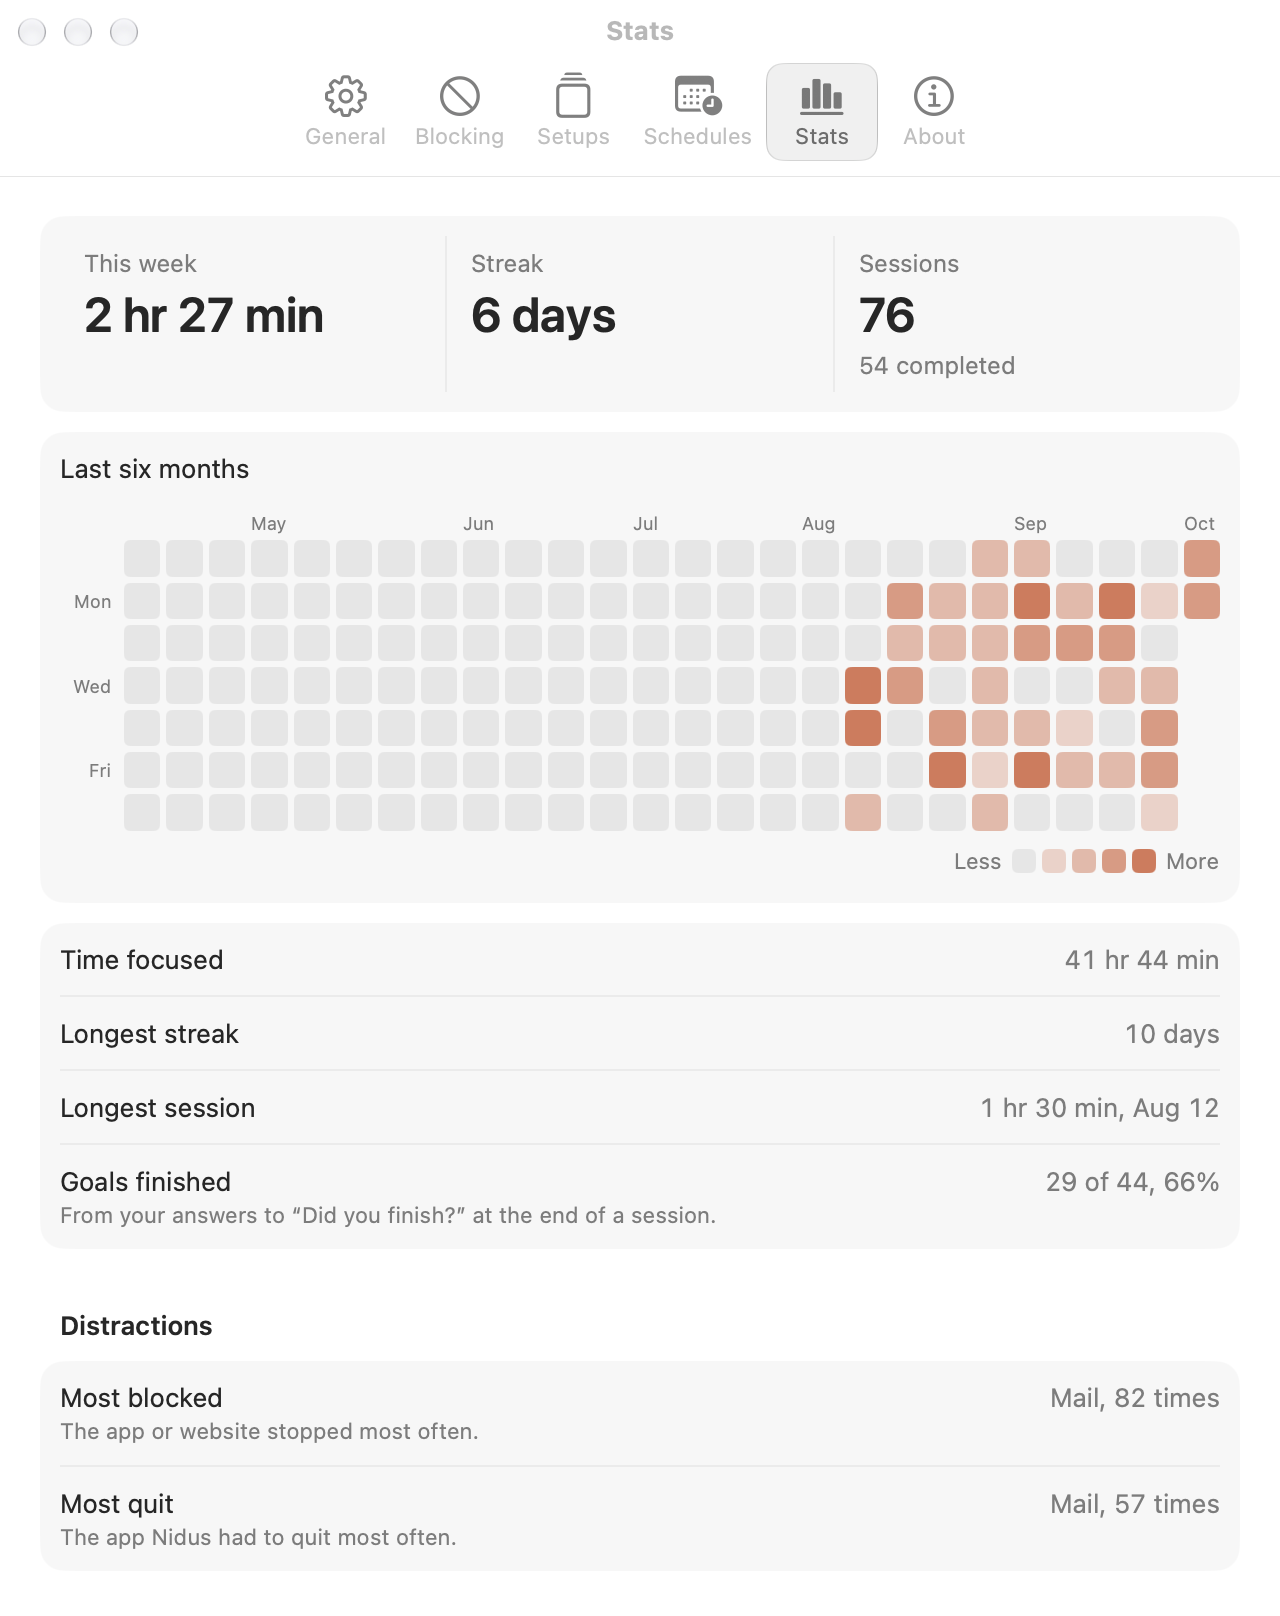
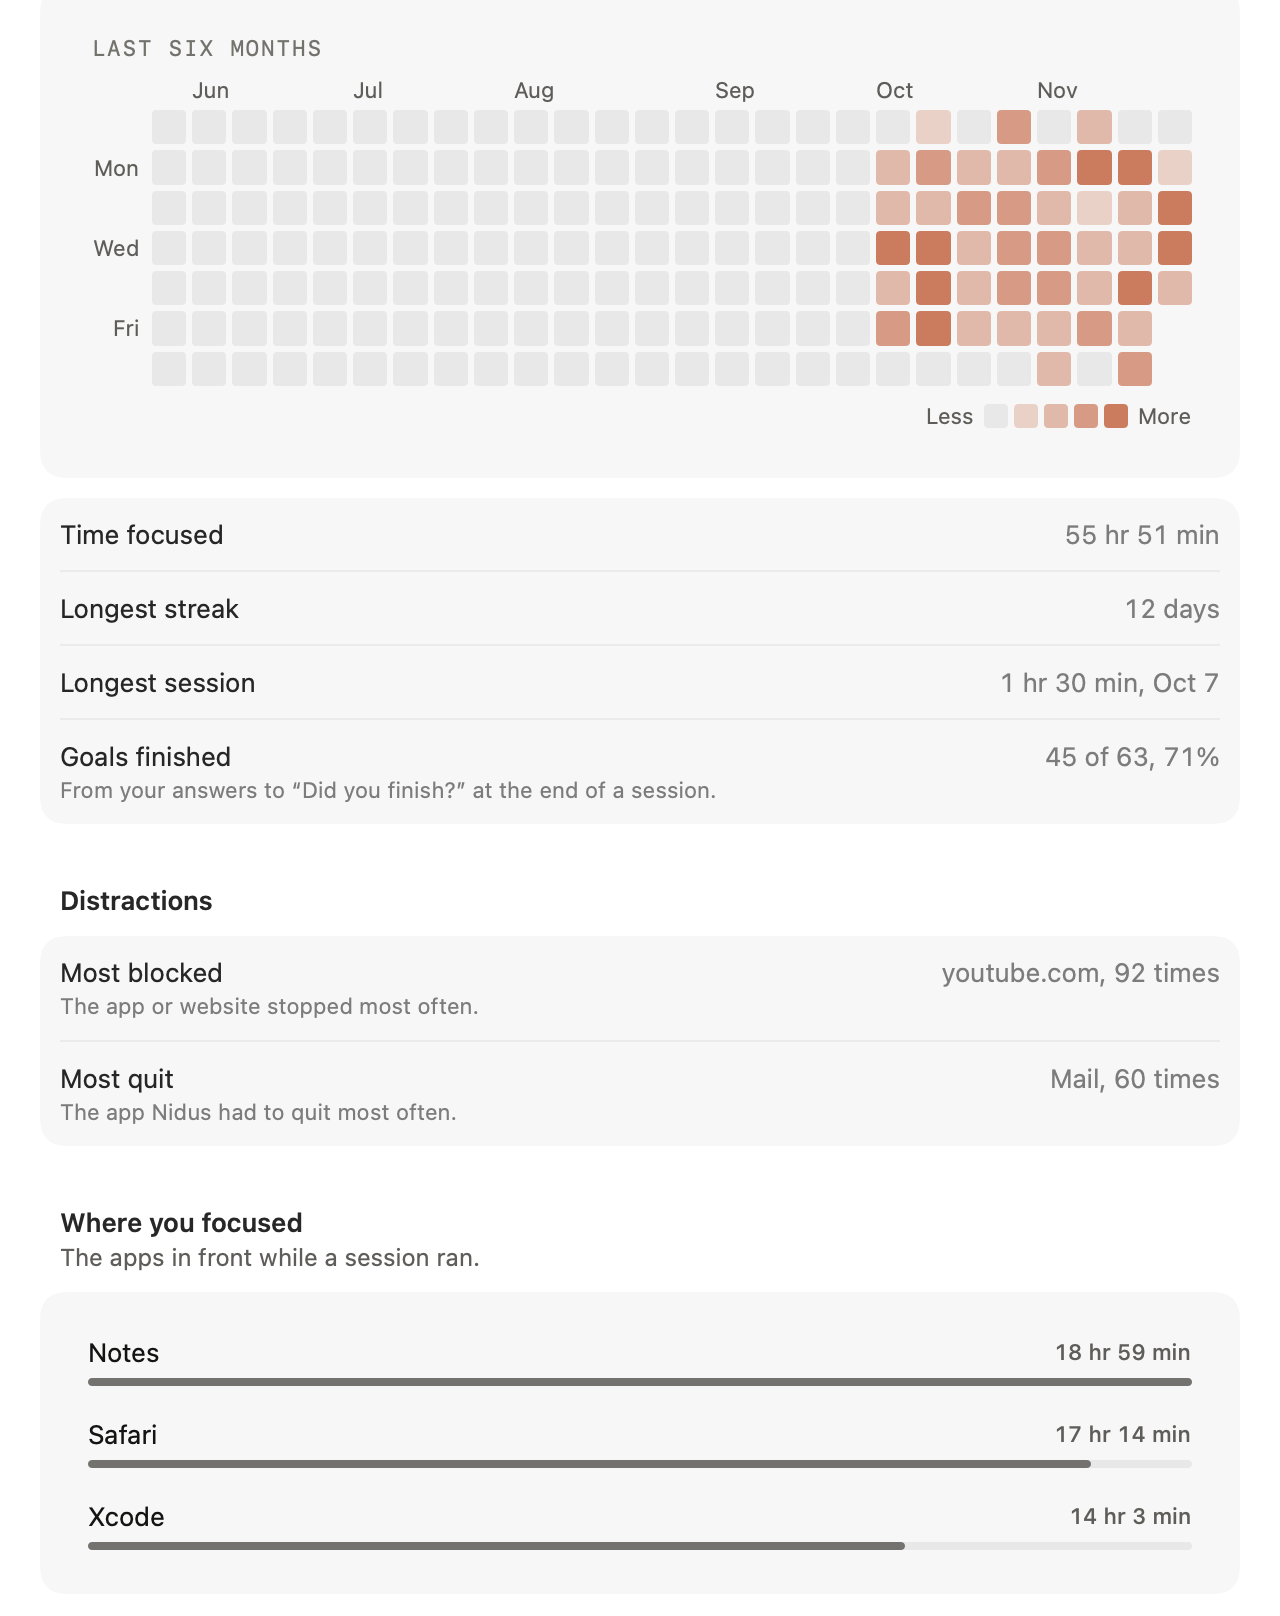
Docs pictures from the 0.7.0 renders

diff --git a/README.md b/README.md
@@ -5,7 +5,7 @@
 **Block the apps and websites that pull you away, for as long as you say.** A
 Solanum product.
 
-<img src="docs/popover-idle.png" width="440" alt="The Nidus popover under the menu bar: a goal field reading What are you working on?, three setups (Deep work, Writing, Reading), a 25 minute length, the Social and Video categories, a clay Start button, and Today 1 hr 10 min, 6-day streak">
+<img src="docs/popover-idle.png" width="440" alt="The Nidus popover under the menu bar: New session, a goal field reading What are you working on?, a 25 minute length, a clay Start focus button, More, Blocks Social, Video, and Today: nothing counted yet">
 
 **Install in one line**: paste into Terminal (Apple silicon, macOS 27):
 
@@ -72,7 +72,7 @@ and the categories to block, and press Start. Until the session ends:
   during a strict session, and comes back if it's killed; see
   [Strict sessions](#strict-sessions).
 
-  <img src="docs/popover-running.png" width="440" alt="The popover during a session: Write the launch post, until 9:37 PM, blocked 2 times, 25:00 left, with pause, +5 and stop buttons">
+  <img src="docs/popover-running.png" width="440" alt="The popover during a session: Focusing, Update Specific Aims, until 12:04 PM, 25:00 with pause, +5 and stop buttons, a progress track, Save a thought, and Today with an empty timeline">
 - **A card says what happened**, at the top of your screen: what was blocked,
   a snooze about to run out, and how the session went.
 
@@ -162,7 +162,7 @@ and the categories to block, and press Start. Until the session ends:
   messaging, video, news and mail are ready to use, and you can make your
   own.
 
-<img src="docs/settings.png" width="420" alt="Nidus Settings on its Blocking tab, with toolbar tabs for General, Blocking, Setups, Schedules, Stats and About, the blocking choices, and the categories"> <img src="docs/stats.png" width="420" alt="The Stats tab: 2 hr 27 min this week, a 6-day streak, 76 sessions, six months of focus as a graph, and the most blocked app">
+<img src="docs/settings.png" width="420" alt="Nidus Settings on its Blocking tab, with toolbar tabs for General, Blocking, Setups, Schedules, Activity, Stats and About, the blocking choices, and the categories"> <img src="docs/stats.png" width="420" alt="The Stats tab: 5 hr 37 min this week, a 4-day streak, 94 sessions, six months of focus as a clay graph, time focused, longest streak and session, and goals finished">
 
 ### Breaks that keep things blocked
 
